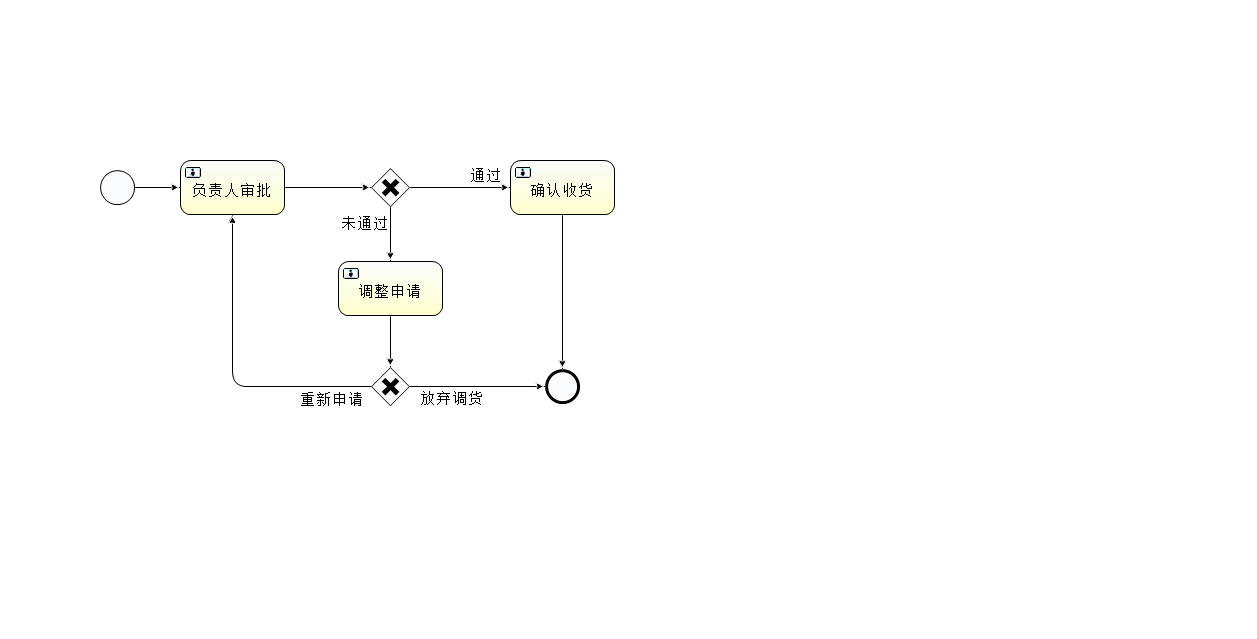
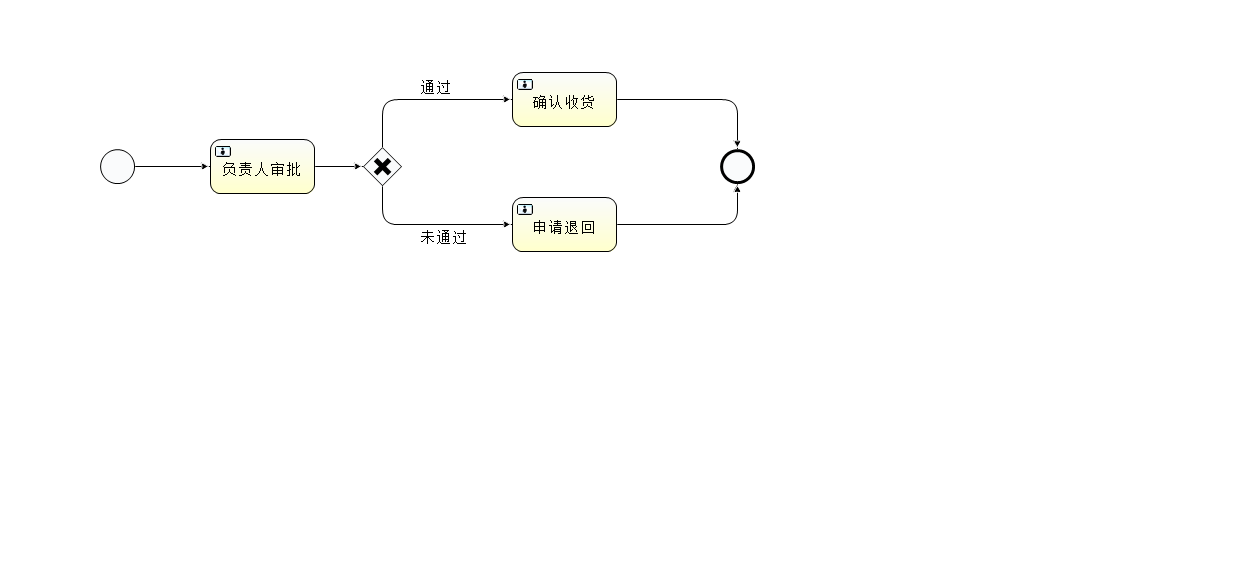
调货工作流修改,货单删除小改#Lzy
放弃修改调货单之后
工作流改的好简单啊哈哈哈哈哈哈

diff --git a/Project/novaSupermarketInvoicingSystem/supermarketInvoicingSystem/classic/src/view/indent/IndentViewController.js b/Project/novaSupermarketInvoicingSystem/supermarketInvoicingSystem/classic/src/view/indent/IndentViewController.js
@@ -630,27 +630,27 @@
   deleteOneIndentRow: function (grid, rowIndex, colIndex) {
     var store = grid.getStore();
     var record = store.getAt(rowIndex);
-    if (record.data.indentStatus == 'INIT') {
+    if (record.data.indentStatus == 'INIT' || record.data.indentStatus == 'ERROR') {
       Ext.MessageBox.confirm('提示', '确定要进行删除操作吗？数据将无法还原！', function (btn, text) {
         if (btn == 'yes') {
           store.remove(record);
         }
       }, this);
     } else {
-      Ext.Msg.alert('提示', "只可以删除'初始化'状态的信息！");
+      Ext.Msg.alert('提示', "只可以删除'初始化'以及'订单异常'状态的信息！");
     }
   },
   deleteOneRow: function (grid, rowIndex, colIndex) {
     var store = grid.getStore();
     var record = store.getAt(rowIndex);
-    if (record.data.indentStatus == 'INIT') {
+    if (record.data.indentStatus == 'INIT'|| record.data.indentStatus == 'ERROR') {
       Ext.MessageBox.confirm('提示', '确定要进行删除操作吗？数据将无法还原！', function (btn, text) {
         if (btn == 'yes') {
           store.remove(record);
         }
       }, this);
     } else {
-      Ext.Msg.alert('提示', "只可以删除'初始化'状态的信息！");
+      Ext.Msg.alert('提示', "只可以删除'初始化'以及'订单异常'状态的信息！");
     }
   },
   deleteMoreRows: function (btn, rowIndex, colIndex) {
@@ -662,7 +662,7 @@
           var rows = selModel.getSelection();
           var selectIds = [];
           Ext.each(rows, function (row) {
-            if (row.data.indentStatus == 'INIT') {
+            if (row.data.indentStatus == 'INIT'|| record.data.indentStatus == 'ERROR') {
               selectIds.push(row.data.id);
             }
           });

diff --git a/Project/novaSupermarketInvoicingSystem/supermarketInvoicingSystem/classic/src/view/indent/IndentGridPanel.js b/Project/novaSupermarketInvoicingSystem/supermarketInvoicingSystem/classic/src/view/indent/IndentGridPanel.js
@@ -153,7 +153,7 @@ Ext.define('SupermarketInvoicingSystem.view.indent.IndentGridPanel', {
                  '<p>最后修改日期：{createDate:this.formatChange}</p>',
                  '<p>创建人:{creator.name}</p>',
                  '<p>状态：{indentStatus}</p>',
-                 '<p>状态：{indentType}</p>',
+                 '<p>货单类型：{indentType}</p>',
                  '<p>备注：{note}</p>',
                  '<p>总成本：{cost}</p>',
                  '<tpl if="toWarehouse!=null"><p>进货点(仓库)：{toWarehouse.location.address}  {toWarehouse.name}</p></tpl>',
